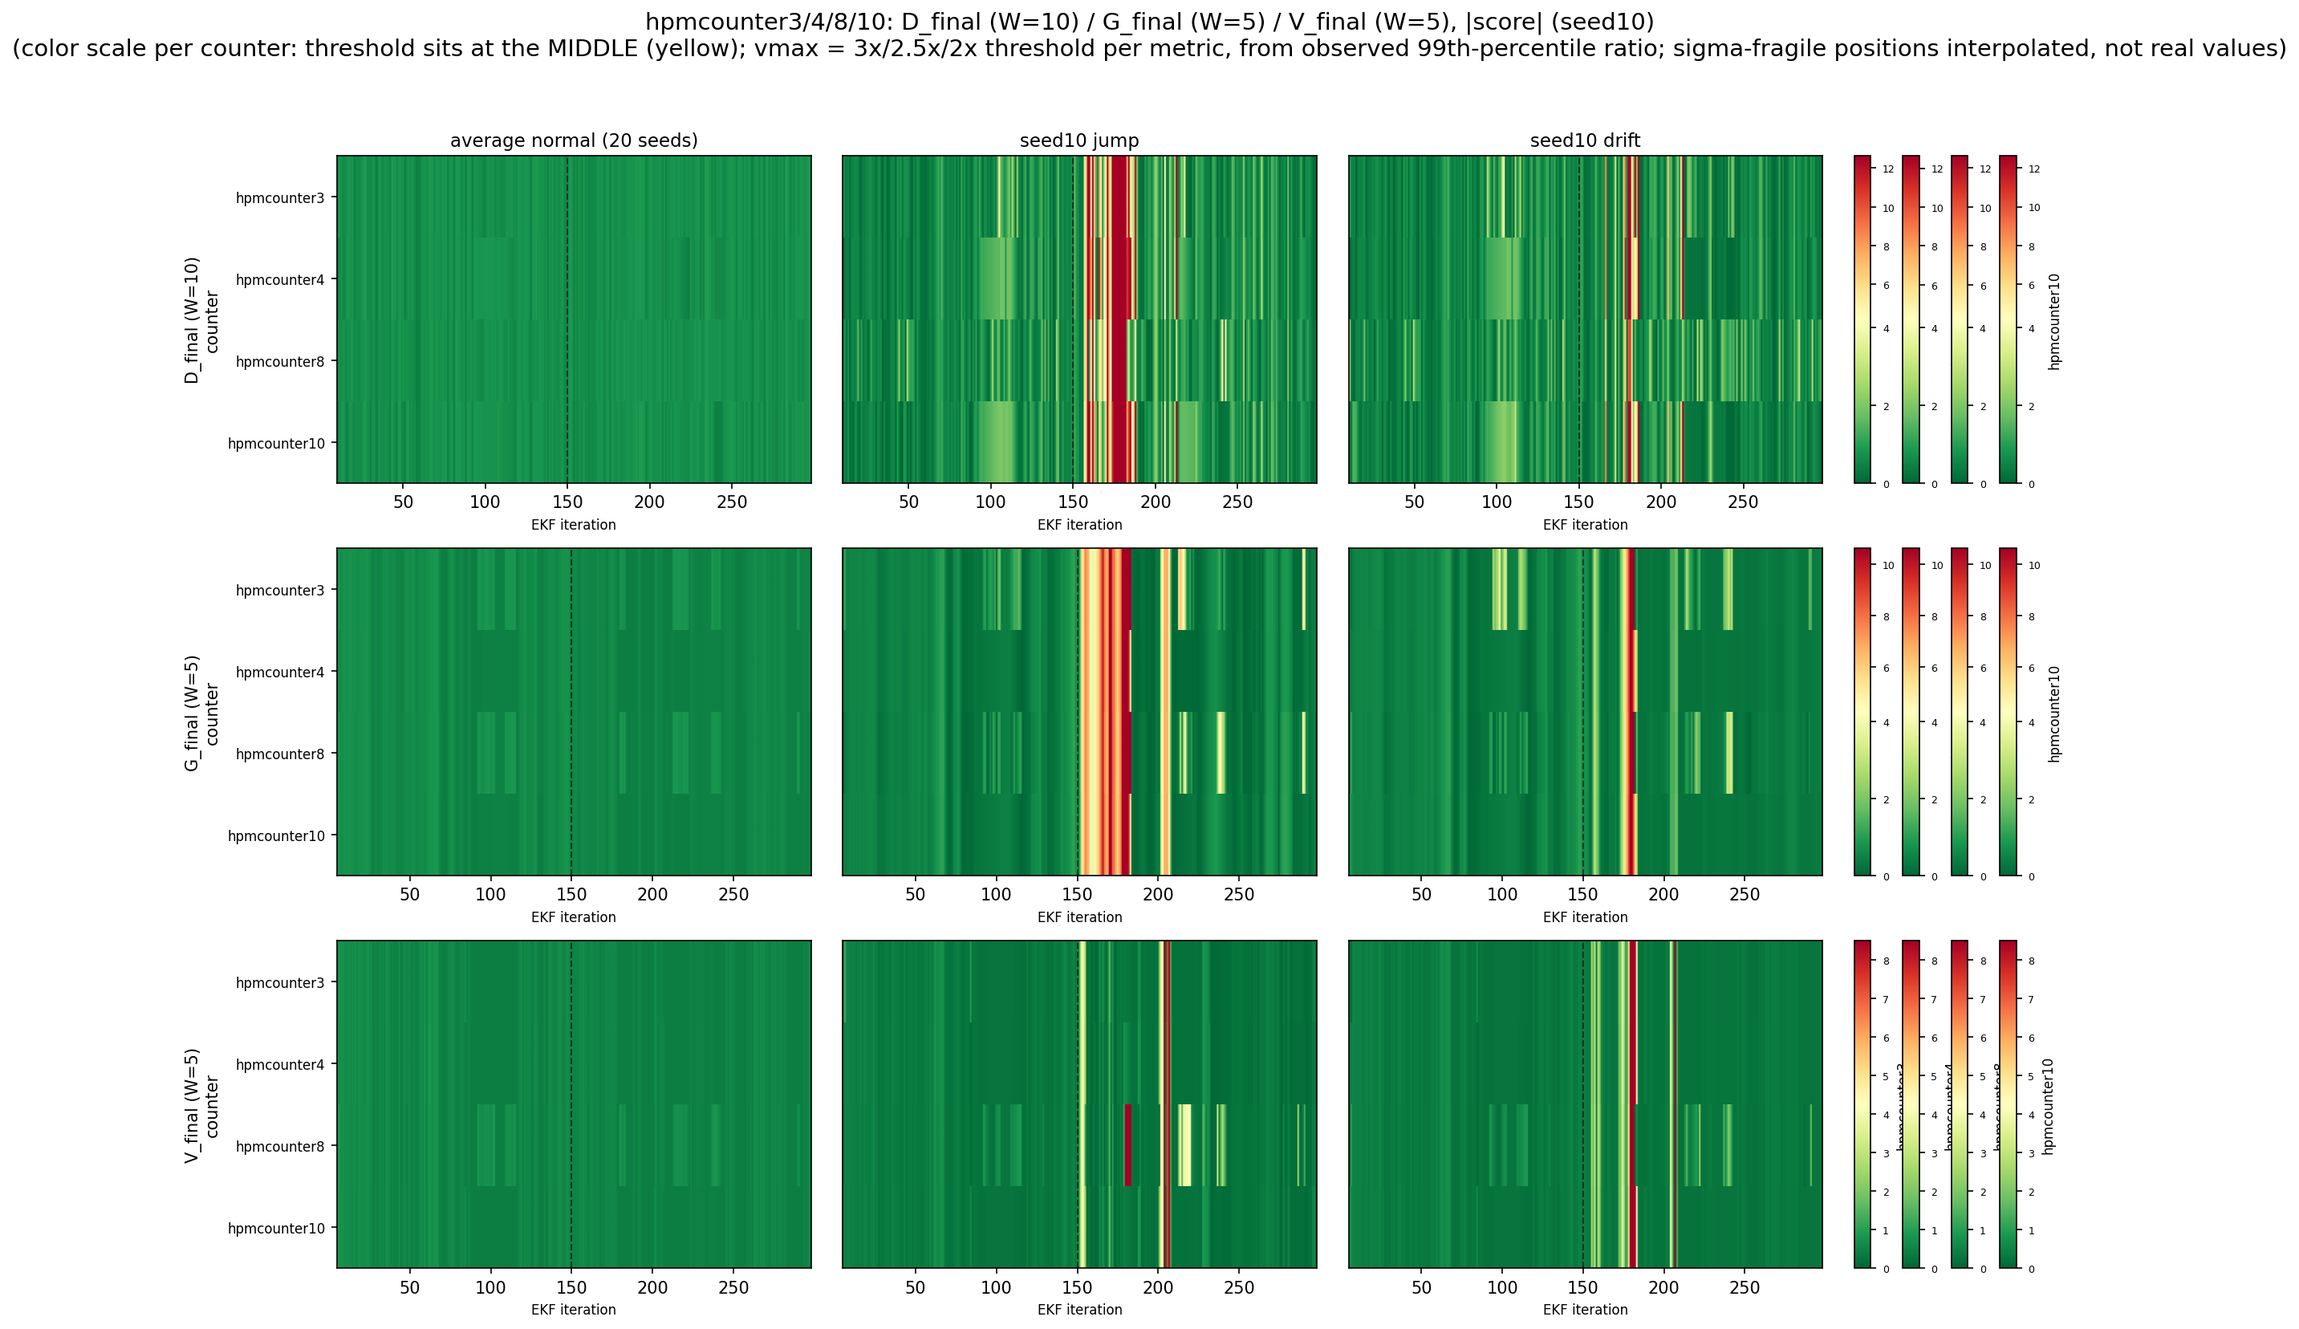
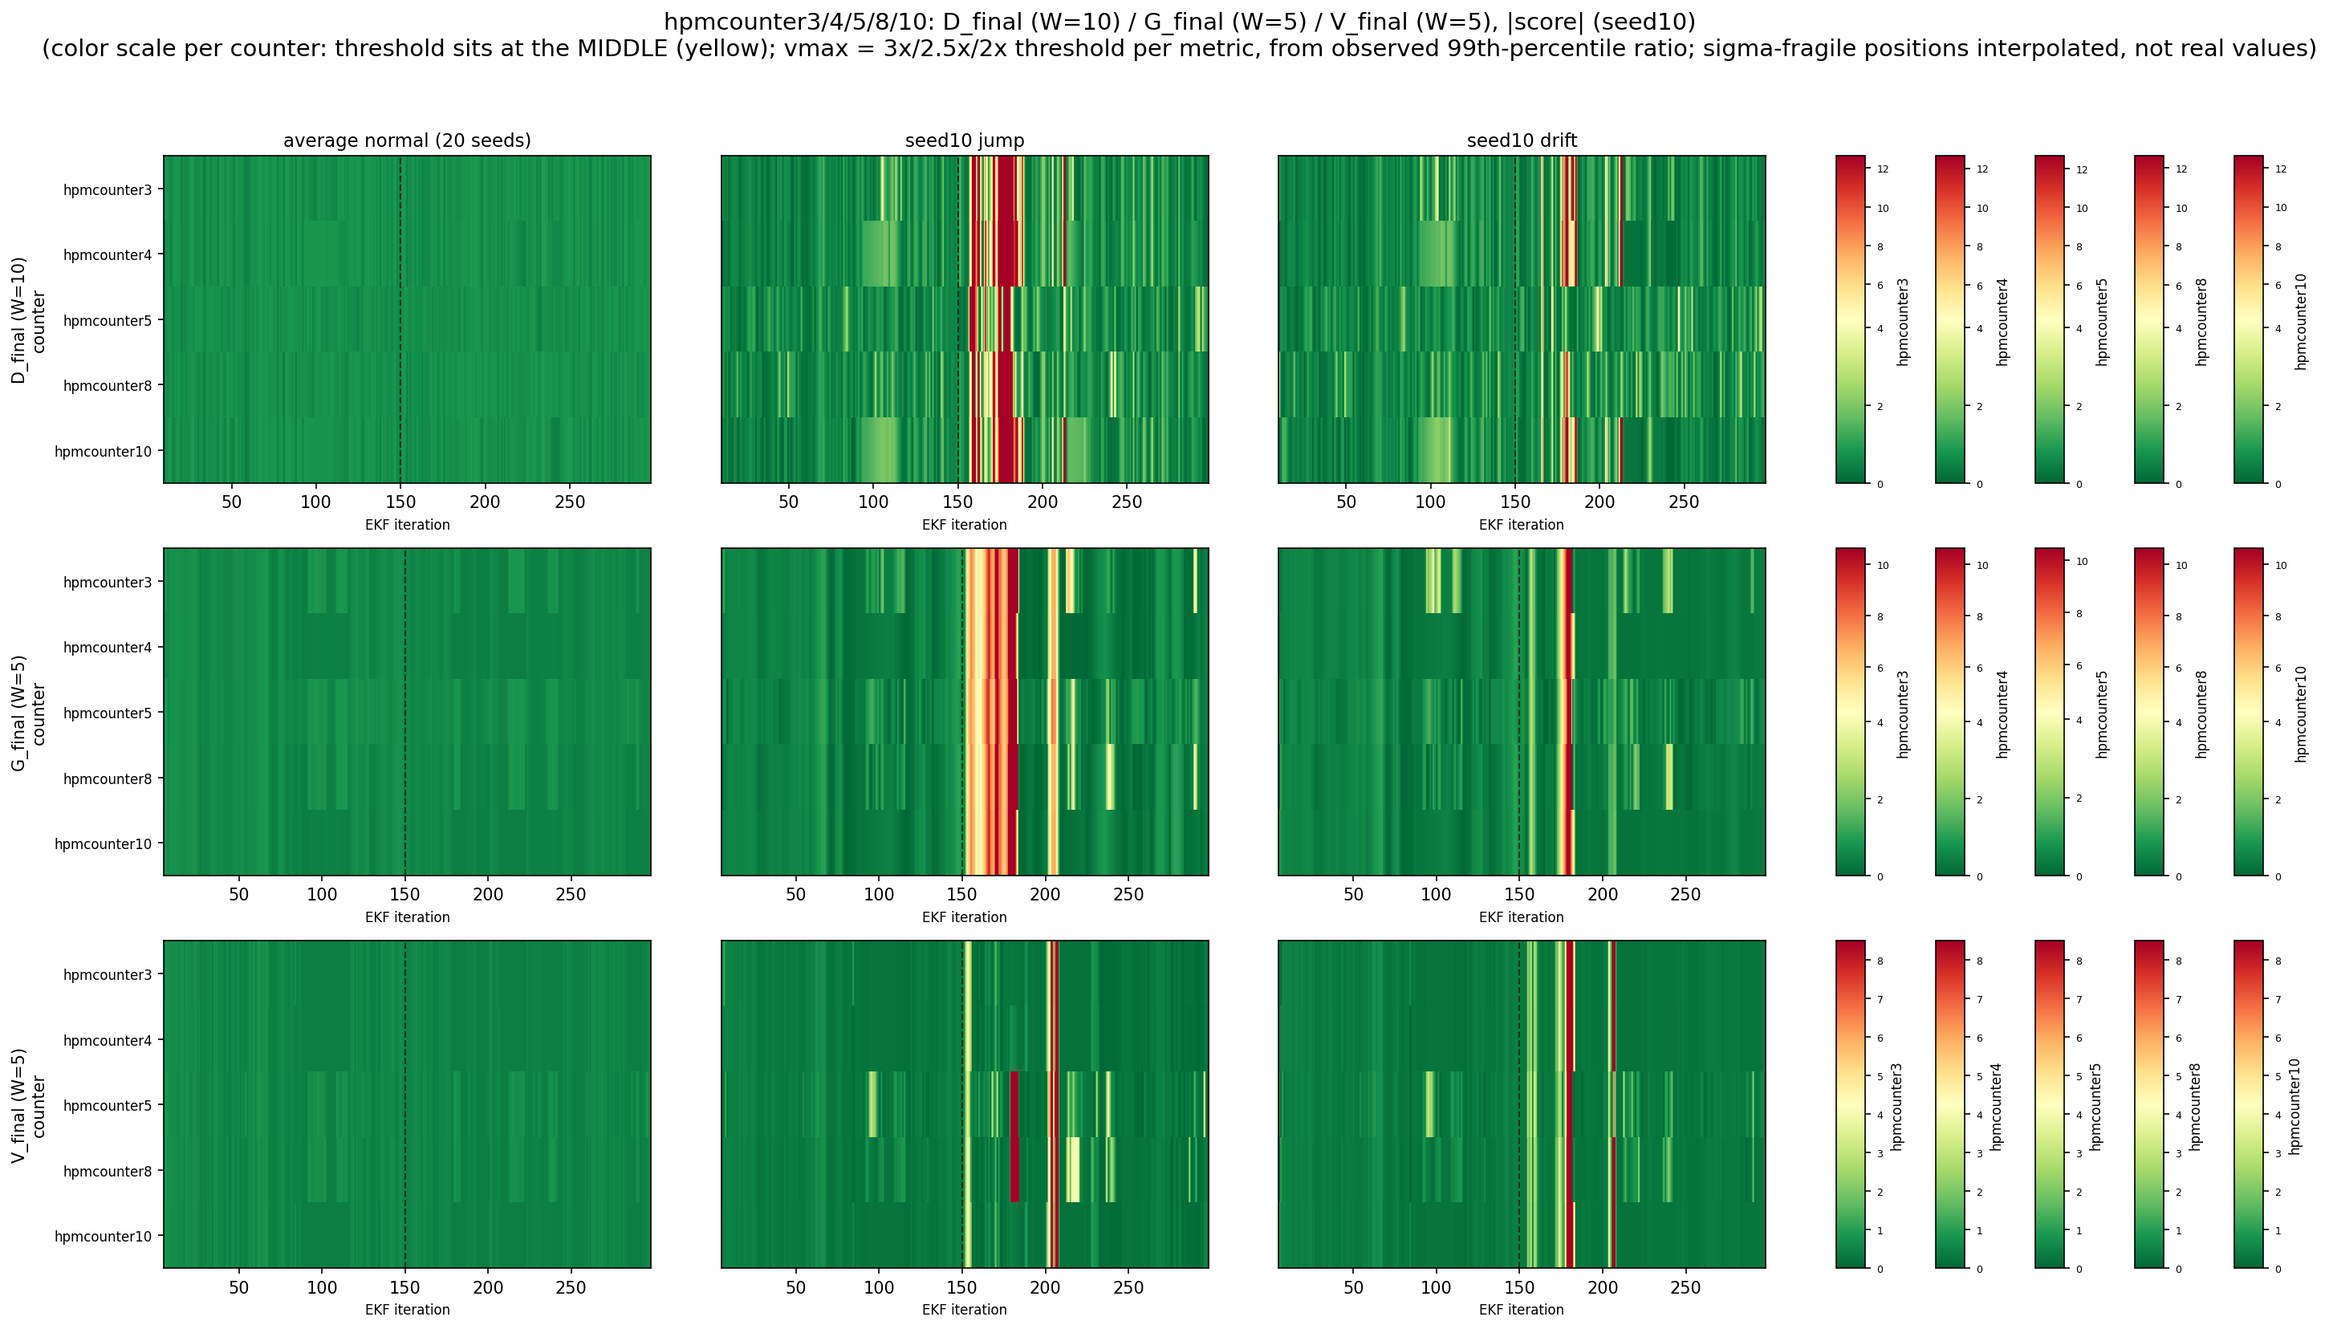
Fix ensemble Scenario III to require true simultaneous agreement, add hpmcounter5 to heatmaps
ensemble_detection.py's "III) A and B and C" was computing each metric's
run-level "fired somewhere, ever" boolean independently before combining
with AND -- silently redefining III to mean "each metric caught it at
some point" rather than "all three fired at the same window," inflating
F1 (e.g. some counters showed a perfect 1.000). Fixed by aligning D/G/V
on window_end_iter first and requiring n_agree>=3 at the same window;
a run is "detected" under III only if this happens somewhere in its run.
Scenario I/II barely changed; III's F1 drops substantially, especially
for drift (true 3-way simultaneous agreement is rare for a slow ramp
attack) -- an honest number instead of an inflated one. Verified against
ensemble_firing_timeline.py, which already showed this directly: seed1/
jump has zero simultaneous III windows on any counter, seed2/jump has
at least one on every counter, matching the corrected confusion matrix
exactly.

ensemble_firing_timeline.py: added horizontal separator lines between
the three stacked scenario strips per counter (previously adjacent
same-color strips blurred together), and generates plots for both seed1
(no agreement, for jump) and seed2 (agreement present) instead of only
seed1, so both real outcomes are represented.

hpmcounter9 (established near-negative-control) excluded from
detection_confusion_matrix.py and ensemble_detection.py, matching the
convention already used in ml_fusion_classifier.py, pre_onset_audit.py,
[…]

diff --git a/adaptive_analysis_board_firmware/line_fitting/combined/ensemble_detection.py b/adaptive_analysis_board_firmware/line_fitting/combined/ensemble_detection.py
@@ -6,12 +6,29 @@ under three voting rules:
     II)  at least 2 fire    (majority vote)
     III) A and B and C      (all three must fire)
 
-Each metric's own per-run "detected" flag is exactly the post-onset-flag
-rule already used throughout this project (run_detected in
-detection_confusion_matrix.py); this script reuses that, then combines
-the three boolean columns with OR / majority / AND before recomputing
-the same confusion matrix (TP/FP/FN/TN) and derived Precision/Recall/F1/
-False-Alarm per counter per scenario.
+Voting is done at the WINDOW level, not the run level: for every window
+position (window_end_iter) where all three metrics have a defined value,
+n_agree = how many of D/G/V are flagged AT THAT SAME WINDOW. Scenario I/
+II/III are then "does ANY window in the run reach n_agree >= 1/2/3" --
+i.e. OR and majority still just need agreement to happen somewhere, but
+III genuinely requires D, G, and V to ALL fire simultaneously at the same
+window at least once, matching the plain-English meaning of "A and B and
+C" (and the per-window n_agree/flag_and convention already used earlier
+in this project, e.g. combined_detection.py). An earlier version of this
+script collapsed each metric to a run-level "fired somewhere, ever"
+boolean BEFORE combining, which silently redefined III to mean "each
+metric independently fired at some point" rather than "all three fired
+together" -- that was wrong and has been fixed.
+
+Since D is W=10 and G/V are W=5, D's window_end_iter values start later;
+only positions where all three metrics have a value are considered (an
+inner join on window_end_iter), same alignment convention already used
+in ensemble_firing_timeline.py.
+
+Ground truth is by run mode: normal = 0, jump/drift = 1. Flagged windows
+are considered across the FULL run (pre- and post-onset), not restricted
+to window_end_iter >= 150 the way detection_confusion_matrix.py's
+post-onset-only convention is.
 
 Jump and drift are scored as SEPARATE binary classification problems
 (jump vs. normal, and drift vs. normal), not pooled into one "attack"
@@ -24,6 +41,11 @@ type they're being scored against.
 Same three metric configurations as heatmap_4counters_midthreshold.py /
 detection_confusion_matrix.py: D_final at W=10, G_final and V_final at
 W=5.
+
+hpmcounter9 excluded (established near-negative-control, noise-
+contaminated -- see pre_onset_audit.py / Sec. 8.4), matching the
+convention already used in ml_fusion_classifier.py, pre_onset_audit.py,
+and ensemble_firing_timeline.py.
 """
 
 import os
@@ -36,7 +58,7 @@ LINE_FITTING_DIR = os.path.dirname(SCRIPT_DIR)
 RESULTS_DIR = os.path.join(LINE_FITTING_DIR, "results")
 PLOT_DIR = os.path.join(LINE_FITTING_DIR, "plots_heatmap")
 
-ONSET_ITER = 150
+USABLE_COUNTERS = ["hpmcounter3", "hpmcounter4", "hpmcounter5", "hpmcounter8", "hpmcounter10"]
 
 # (short_name, score_col, thresh_col, score_path, thresh_path)
 METRICS = [
@@ -56,19 +78,13 @@ ATTACK_TYPES = ["jump", "drift"]
 ATTACK_COLORS = {"jump": "#E07B1A", "drift": "#2E8B3D"}
 
 
-def run_detected_for_metric(score_col, thresh_col, score_path, thresh_path):
+def flagged_frame(short_name, score_col, thresh_col, score_path, thresh_path):
     scored = pd.read_csv(os.path.join(RESULTS_DIR, score_path))
     thresholds = pd.read_csv(os.path.join(RESULTS_DIR, thresh_path))
 
-    df = scored[~scored["sigma_fragile"]].merge(thresholds, on="counter")
-    df["flagged"] = df[score_col].abs() > df[thresh_col]
-    df["post_onset_flag"] = df["flagged"] & (df["window_end_iter"] >= ONSET_ITER)
-
-    return (
-        df.groupby(["counter", "mode", "seed"])["post_onset_flag"]
-        .any()
-        .reset_index(name="detected")
-    )
+    df = scored[~scored["sigma_fragile"] & scored["counter"].isin(USABLE_COUNTERS)].merge(thresholds, on="counter")
+    df[f"flagged_{short_name}"] = df[score_col].abs() > df[thresh_col]
+    return df[["counter", "mode", "seed", "window_end_iter", f"flagged_{short_name}"]]
 
 
 def confusion_stats(grp):
@@ -87,16 +103,24 @@ def confusion_stats(grp):
 def main():
     os.makedirs(PLOT_DIR, exist_ok=True)
 
-    merged = None
+    windowed = None
     for short_name, score_col, thresh_col, score_path, thresh_path in METRICS:
-        rd = run_detected_for_metric(score_col, thresh_col, score_path, thresh_path)
-        rd = rd.rename(columns={"detected": f"detected_{short_name}"})
-        merged = rd if merged is None else merged.merge(rd, on=["counter", "mode", "seed"])
+        fdf = flagged_frame(short_name, score_col, thresh_col, score_path, thresh_path)
+        windowed = fdf if windowed is None else windowed.merge(
+            fdf, on=["counter", "mode", "seed", "window_end_iter"], how="inner"
+        )
 
-    n_fire = merged[["detected_G", "detected_D", "detected_V"]].sum(axis=1)
-    merged["I"] = n_fire >= 1
-    merged["II"] = n_fire >= 2
-    merged["III"] = n_fire >= 3
+    n_agree = windowed[["flagged_G", "flagged_D", "flagged_V"]].sum(axis=1)
+    windowed["window_I"] = n_agree >= 1
+    windowed["window_II"] = n_agree >= 2
+    windowed["window_III"] = n_agree >= 3
+
+    merged = (
+        windowed.groupby(["counter", "mode", "seed"])[["window_I", "window_II", "window_III"]]
+        .any()
+        .rename(columns={"window_I": "I", "window_II": "II", "window_III": "III"})
+        .reset_index()
+    )
 
     rows = []
     for counter, cgrp in merged.groupby("counter"):

diff --git a/adaptive_analysis_board_firmware/line_fitting/combined/ensemble_firing_timeline.py b/adaptive_analysis_board_firmware/line_fitting/combined/ensemble_firing_timeline.py
@@ -6,12 +6,21 @@ rather than the run-level "detected" flag ensemble_detection.py reports.
 This is the un-collapsed view: at every window position t, does scenario
 I (any of D/G/V_final fires), II (>=2 fire), or III (all 3 fire) fire at
 THAT window -- shown as a green/red strip per scenario. One figure per
-attack type (jump, drift), stacking all 5 usable counters (hpmcounter9
+(attack type, seed), stacking all 5 usable counters (hpmcounter9
 excluded -- see pre_onset_audit.py / Section 8.4) as row-blocks so both
 pre- and post-onset firing behavior is visible across the whole set at
-once. Uses the same seed1 representative-run convention as the other
-single-seed paper figures (plot_hpm_rate.py, plot_trajectory_3d.py,
-plot_gps_ekf_error.py).
+once.
+
+Generated for two representative seeds: seed1 (the convention used by
+the other single-seed paper figures -- plot_hpm_rate.py,
+plot_trajectory_3d.py, plot_gps_ekf_error.py) and seed2. These are
+genuinely different outcomes, not two random picks: checked directly
+against ensemble_detection_confusion_matrix.csv, for jump seed1 has
+ZERO windows with all three metrics firing simultaneously on ANY of the
+5 counters (one of hpmcounter3/jump/III's 6 false negatives), while
+seed2 has >=1 simultaneous window on every one of the 5 counters (one
+of its 14 true positives) -- so seed1 shows what "III never fires" looks
+like and seed2 shows what "III does fire" looks like, both real.
 
 Same three metric configurations as heatmap_4counters_midthreshold.py /
 detection_confusion_matrix.py / ensemble_detection.py: D_final at W=10,
@@ -32,7 +41,7 @@ LINE_FITTING_DIR = os.path.dirname(SCRIPT_DIR)
 RESULTS_DIR = os.path.join(LINE_FITTING_DIR, "results")
 PLOT_DIR = os.path.join(LINE_FITTING_DIR, "plots_heatmap")
 
-REPRESENTATIVE_SEED = "seed1"
+REPRESENTATIVE_SEEDS = ["seed1", "seed2"]
 ONSET_ITER = 150
 TARGET_COUNTERS = ["hpmcounter3", "hpmcounter4", "hpmcounter5", "hpmcounter8", "hpmcounter10"]
 ATTACK_TYPES = ["jump", "drift"]
@@ -67,10 +76,10 @@ def flagged_series(score_path, thresh_path, score_col, thresh_col, counter, mode
     return sub.set_index("window_end_iter")["flagged"].sort_index()
 
 
-def scenario_fire_for_counter(counter, attack_type):
+def scenario_fire_for_counter(counter, attack_type, seed):
     per_metric = {
         short: flagged_series(score_path, thresh_path, score_col, thresh_col,
-                               counter, attack_type, REPRESENTATIVE_SEED)
+                               counter, attack_type, seed)
         for short, score_col, thresh_col, score_path, thresh_path in METRICS
     }
 
@@ -89,7 +98,7 @@ def scenario_fire_for_counter(counter, attack_type):
     }
 
 
-def make_figure(attack_type):
+def make_figure(attack_type, seed):
     n_counters = len(TARGET_COUNTERS)
     n_rows = n_counters * len(SCENARIOS)
     fig, axes = plt.subplots(
@@ -98,13 +107,20 @@ def make_figure(attack_type):
     )
 
     for ax, counter in zip(axes, TARGET_COUNTERS):
-        common_iters, scenario_fire = scenario_fire_for_counter(counter, attack_type)
+        common_iters, scenario_fire = scenario_fire_for_counter(counter, attack_type, seed)
         x0, x1 = common_iters.min(), common_iters.max()
 
         for row, scenario in enumerate(SCENARIOS):
             data = scenario_fire[scenario].astype(int).reshape(1, -1)
             extent = [x0, x1, len(SCENARIOS) - row - 1, len(SCENARIOS) - row]
             ax.imshow(data, aspect="auto", cmap=FIRE_CMAP, vmin=0, vmax=1, extent=extent, interpolation="nearest")
+
+        # separator lines between the 3 stacked scenario strips, so two
+        # adjacent same-color (e.g. both green) strips don't blur together
+        for boundary in range(1, len(SCENARIOS)):
+            ax.axhline(boundary, color="black", linewidth=1.0, alpha=0.9, zorder=3)
+        ax.axhline(0, color="black", linewidth=1.0, alpha=0.9, zorder=3)
+        ax.axhline(len(SCENARIOS), color="black", linewidth=1.0, alpha=0.9, zorder=3)
 
         ax.axvline(ONSET_ITER, color="black", linewidth=1.1, linestyle="--", alpha=0.8)
         ax.set_yticks(np.arange(len(SCENARIOS)) + 0.5)
@@ -127,14 +143,14 @@ def make_figure(attack_type):
     fig.legend(handles=handles, loc="upper right", bbox_to_anchor=(0.995, 0.995), frameon=False, fontsize=9)
 
     fig.suptitle(
-        f"Ensemble firing timeline -- {attack_type} ({REPRESENTATIVE_SEED})\n"
+        f"Ensemble firing timeline -- {attack_type} ({seed})\n"
         "(A=G_final W=5, B=D_final W=10, C=V_final W=5; dashed line = attack onset; "
         "hpmcounter9 excluded, see Sec. 8.4)",
         fontsize=12,
     )
     fig.tight_layout(rect=[0, 0, 1, 0.94])
 
-    out_path = os.path.join(PLOT_DIR, f"ensemble_firing_timeline_{attack_type}.png")
+    out_path = os.path.join(PLOT_DIR, f"ensemble_firing_timeline_{attack_type}_{seed}.png")
     fig.savefig(out_path, dpi=150, bbox_inches="tight")
     plt.close(fig)
     print(f"Saved {out_path}")
@@ -142,8 +158,9 @@ def make_figure(attack_type):
 
 def main():
     os.makedirs(PLOT_DIR, exist_ok=True)
-    for attack_type in ATTACK_TYPES:
-        make_figure(attack_type)
+    for seed in REPRESENTATIVE_SEEDS:
+        for attack_type in ATTACK_TYPES:
+            make_figure(attack_type, seed)
 
 
 if __name__ == "__main__":

diff --git a/adaptive_analysis_board_firmware/line_fitting/heatmaps/heatmap_4counters_midthreshold.py b/adaptive_analysis_board_firmware/line_fitting/heatmaps/heatmap_4counters_midthreshold.py
@@ -1,4 +1,4 @@
-"""hpmcounter3/4/8/10 heatmap, D_final/G_final/V_final rows, normal/jump/
+"""hpmcounter3/4/5/8/10 heatmap, D_final/G_final/V_final rows, normal/jump/
 drift columns, one PNG per seed (plus the normal column averaged across
 all 20 seeds) -- same visual format as the original z_stat/D/V(z-scored)
 version this replaces, but sourced from the window-diff-then-z-score
@@ -53,7 +53,7 @@ LINE_FITTING_DIR = os.path.dirname(SCRIPT_DIR)
 RESULTS_DIR = os.path.join(LINE_FITTING_DIR, "results")
 PLOT_DIR = os.path.join(LINE_FITTING_DIR, "plots_heatmap")
 
-TARGET_COUNTERS = ["hpmcounter3", "hpmcounter4", "hpmcounter8", "hpmcounter10"]
+TARGET_COUNTERS = ["hpmcounter3", "hpmcounter4", "hpmcounter5", "hpmcounter8", "hpmcounter10"]
 MODES = ["normal", "jump", "drift"]
 # (score_col, thresh_col, label, k, score_path, thresh_path)
 METRICS = [
@@ -85,11 +85,11 @@ def seed_sort_key(s):
 
 def make_figure(data_sources, threshold_sources, test_seed):
     n = len(TARGET_COUNTERS)
-    fig = plt.figure(figsize=(18, 12))
+    fig = plt.figure(figsize=(18 + 0.9 * n, 12))
     gs = fig.add_gridspec(
         3, 3 + n,
-        width_ratios=[10, 10, 10] + [0.35] * n,
-        wspace=0.15,
+        width_ratios=[10, 10, 10] + [0.6] * n,
+        wspace=0.35,
     )
 
     for row, (value_col, thresh_col, label, k, _, _) in enumerate(METRICS):
@@ -154,7 +154,7 @@ def make_figure(data_sources, threshold_sources, test_seed):
             cbar.ax.tick_params(labelsize=6)
 
     fig.suptitle(
-        f"hpmcounter3/4/8/10: D_final (W=10) / G_final (W=5) / V_final (W=5), |score| ({test_seed})\n"
+        f"hpmcounter3/4/5/8/10: D_final (W=10) / G_final (W=5) / V_final (W=5), |score| ({test_seed})\n"
         "(color scale per counter: threshold sits at the MIDDLE (yellow); "
         "vmax = 3x/2.5x/2x threshold per metric, from observed 99th-percentile ratio; "
         "sigma-fragile positions interpolated, not real values)",

diff --git a/adaptive_analysis_board_firmware/line_fitting/combined/detection_confusion_matrix.py b/adaptive_analysis_board_firmware/line_fitting/combined/detection_confusion_matrix.py
@@ -33,6 +33,12 @@ RESULTS_DIR = os.path.join(LINE_FITTING_DIR, "results")
 
 ONSET_ITER = 150
 
+# hpmcounter9 excluded (established near-negative-control, noise-
+# contaminated -- see pre_onset_audit.py / Sec. 8.4), matching the
+# convention already used in ml_fusion_classifier.py, pre_onset_audit.py,
+# ensemble_detection.py, and ensemble_firing_timeline.py.
+USABLE_COUNTERS = ["hpmcounter3", "hpmcounter4", "hpmcounter5", "hpmcounter8", "hpmcounter10"]
+
 # (label, score_col, thresh_col, score_path, thresh_path)
 METRICS = [
     ("D_final (W=10)", "d", "H_d", "d_final_dscore.csv", "d_final_thresholds.csv"),
@@ -45,7 +51,7 @@ def confusion_for_metric(label, score_col, thresh_col, score_path, thresh_path):
     scored = pd.read_csv(os.path.join(RESULTS_DIR, score_path))
     thresholds = pd.read_csv(os.path.join(RESULTS_DIR, thresh_path))
 
-    df = scored[~scored["sigma_fragile"]].merge(thresholds, on="counter")
+    df = scored[~scored["sigma_fragile"] & scored["counter"].isin(USABLE_COUNTERS)].merge(thresholds, on="counter")
     df["flagged"] = df[score_col].abs() > df[thresh_col]
     df["post_onset_flag"] = df["flagged"] & (df["window_end_iter"] >= ONSET_ITER)
 
